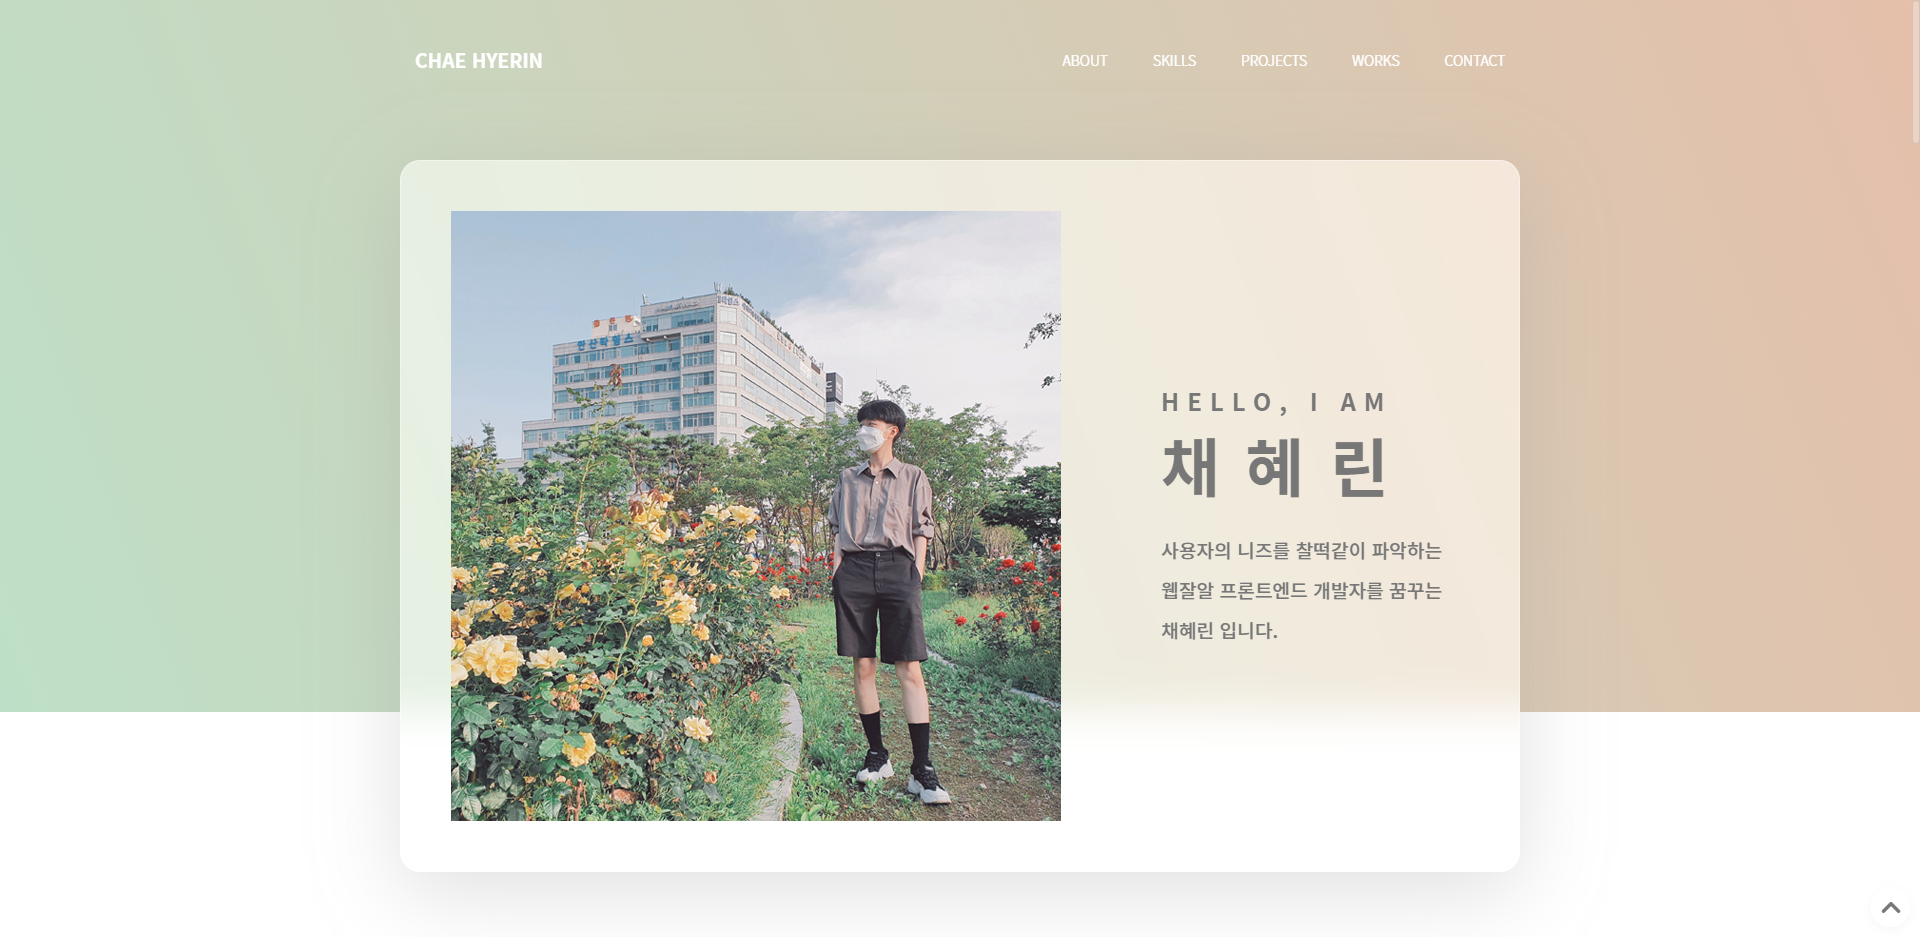
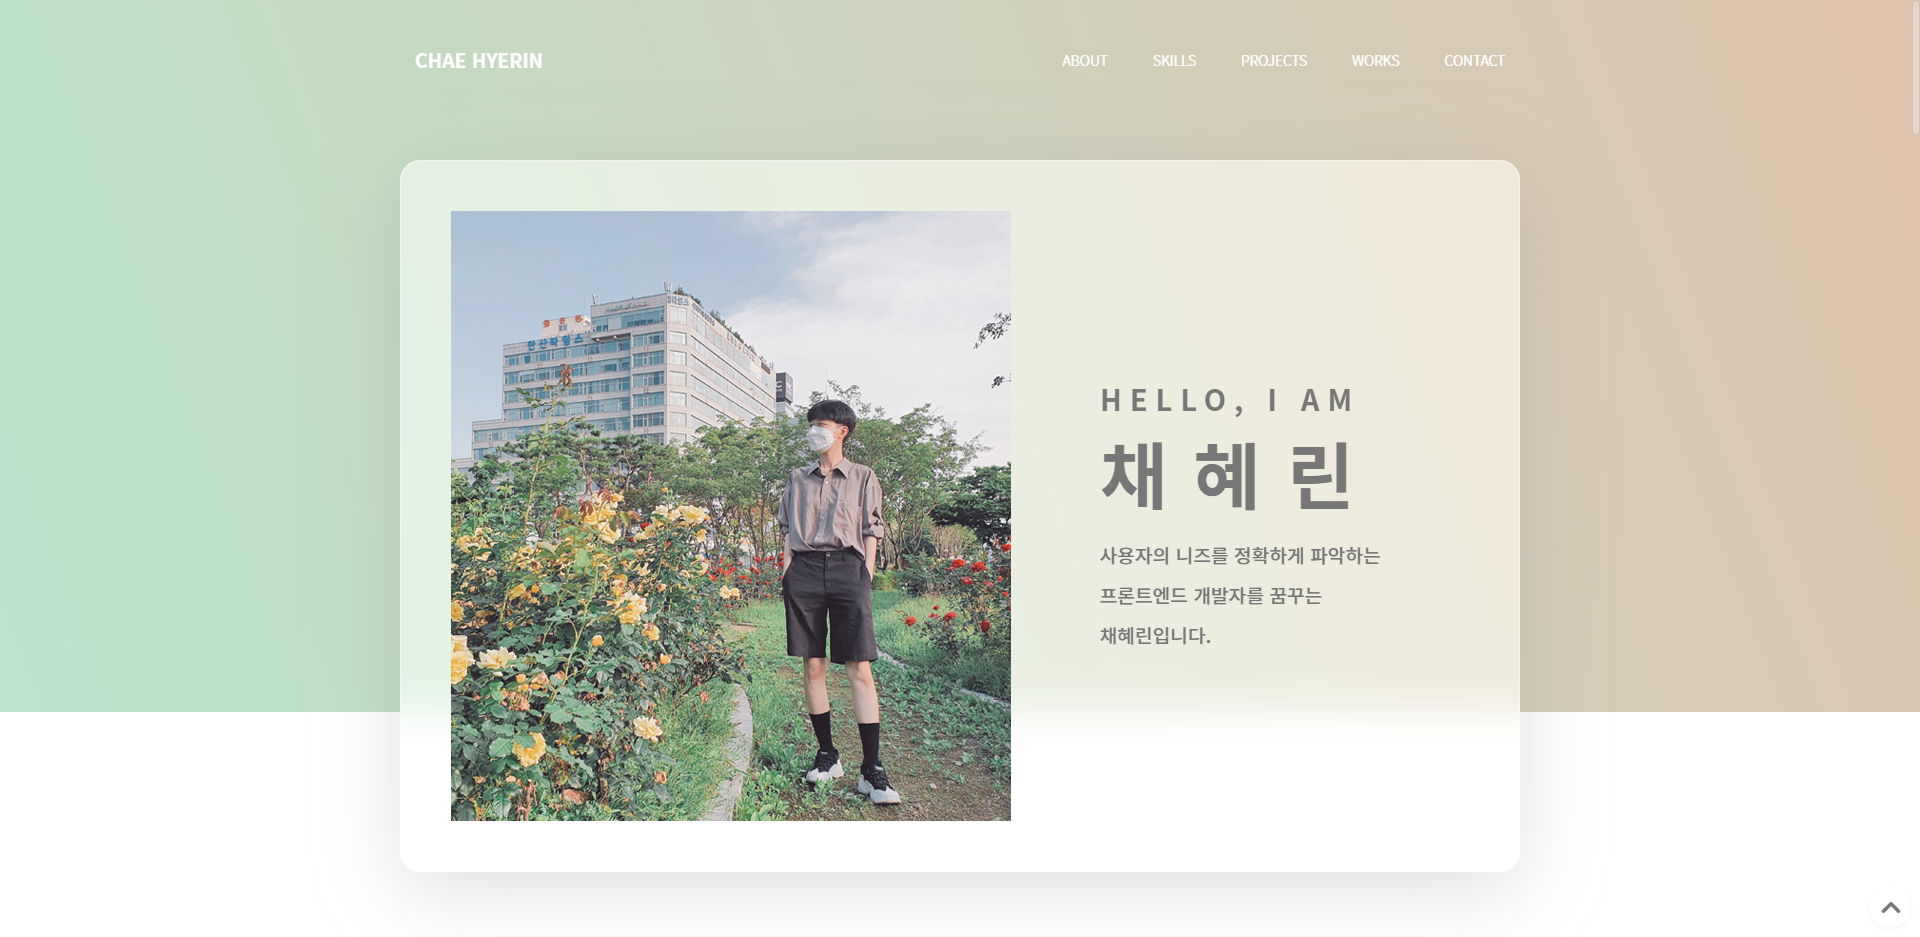
Fix home area

diff --git a/index.html b/index.html
@@ -38,19 +38,19 @@
 			<div class="inner">
 				<div class="content">
 					<div class="content-left">
-						<img src="img/profile_img.jpg" alt="selfie">
+						<div class="frame">
+							<img src="img/profile_img.jpg" alt="selfie">
+						</div>
 					</div>
 					<div class="content-right">
 						<div class="home-text">
-							<div class="home-text name">
-								<div>
-									<h3>Hello, I am</h3>
-									<h1>채혜린</h1>
-								</div>
+							<div class="name">
+								<h3>Hello, I am</h3>
+								<h1>채혜린</h1>
 							</div>
-							<p>사용자의 니즈를 찰떡같이 파악하는 
-								웹잘알 프론트엔드 개발자를 꿈꾸는 
-								채혜린 입니다.</p>
+							<p>사용자의 니즈를 정확하게 파악하는
+								프론트엔드 개발자를 꿈꾸는
+								채혜린입니다.</p>
 						</div>
 					</div>
 				</div>
@@ -121,13 +121,6 @@
 					<h3>css
 						80%</h3>
 					<svg width="160" height="160" xmlns="http://www.w3.org/2000/svg">
-						<defs>
-							<linearGradient id="gradient" gradientTransform="rotate(10)">
-								<stop offset="0%" style="stop-color:#97ffe4;stop-opacity:0.6" />
-								<stop offset="40%" style="stop-color:#ac97ff;stop-opacity:0.6" />
-								<stop offset="100%" style="stop-color:#ffaa97;stop-opacity:0.6" />
-							</linearGradient>
-						</defs>
 						<circle r="69.85699" cy="81" cx="81" stroke-width="8" stroke="rgba(255,255,255,0.4)"
 							fill="none" />
 						<circle class="skillbar" r="69.85699" cy="81" cx="81" stroke-width="8" stroke="url(#gradient)"
@@ -139,13 +132,6 @@
 						script
 						60%</h3>
 					<svg width="160" height="160" xmlns="http://www.w3.org/2000/svg">
-						<defs>
-							<linearGradient id="gradient" gradientTransform="rotate(10)">
-								<stop offset="0%" style="stop-color:#97ffe4;stop-opacity:0.6" />
-								<stop offset="40%" style="stop-color:#ac97ff;stop-opacity:0.6" />
-								<stop offset="100%" style="stop-color:#ffaa97;stop-opacity:0.6" />
-							</linearGradient>
-						</defs>
 						<circle r="69.85699" cy="81" cx="81" stroke-width="8" stroke="rgba(255,255,255,0.4)"
 							fill="none" />
 						<circle class="skillbar" r="69.85699" cy="81" cx="81" stroke-width="8" stroke="url(#gradient)"
@@ -156,13 +142,6 @@
 					<h3>jquery
 						70%</h3>
 					<svg width="160" height="160" xmlns="http://www.w3.org/2000/svg">
-						<defs>
-							<linearGradient id="gradient" gradientTransform="rotate(10)">
-								<stop offset="0%" style="stop-color:#97ffe4;stop-opacity:0.6" />
-								<stop offset="40%" style="stop-color:#ac97ff;stop-opacity:0.6" />
-								<stop offset="100%" style="stop-color:#ffaa97;stop-opacity:0.6" />
-							</linearGradient>
-						</defs>
 						<circle r="69.85699" cy="81" cx="81" stroke-width="8" stroke="rgba(255,255,255,0.4)"
 							fill="none" />
 						<circle class="skillbar" r="69.85699" cy="81" cx="81" stroke-width="8" stroke="url(#gradient)"
@@ -173,13 +152,6 @@
 					<h3>react
 						60%</h3>
 					<svg width="160" height="160" xmlns="http://www.w3.org/2000/svg">
-						<defs>
-							<linearGradient id="gradient" gradientTransform="rotate(10)">
-								<stop offset="0%" style="stop-color:#97ffe4;stop-opacity:0.6" />
-								<stop offset="40%" style="stop-color:#ac97ff;stop-opacity:0.6" />
-								<stop offset="100%" style="stop-color:#ffaa97;stop-opacity:0.6" />
-							</linearGradient>
-						</defs>
 						<circle r="69.85699" cy="81" cx="81" stroke-width="8" stroke="rgba(255,255,255,0.4)"
 							fill="none" />
 						<circle class="skillbar" r="69.85699" cy="81" cx="81" stroke-width="8" stroke="url(#gradient)"
@@ -191,13 +163,6 @@
 						-rator
 						75%</h3>
 					<svg width="160" height="160" xmlns="http://www.w3.org/2000/svg">
-						<defs>
-							<linearGradient id="gradient" gradientTransform="rotate(10)">
-								<stop offset="0%" style="stop-color:#97ffe4;stop-opacity:0.6" />
-								<stop offset="40%" style="stop-color:#ac97ff;stop-opacity:0.6" />
-								<stop offset="100%" style="stop-color:#ffaa97;stop-opacity:0.6" />
-							</linearGradient>
-						</defs>
 						<circle r="69.85699" cy="81" cx="81" stroke-width="8" stroke="rgba(255,255,255,0.4)"
 							fill="none" />
 						<circle class="skillbar" r="69.85699" cy="81" cx="81" stroke-width="8" stroke="url(#gradient)"
@@ -209,13 +174,6 @@
 						-shop
 						70%</h3>
 					<svg width="160" height="160" xmlns="http://www.w3.org/2000/svg">
-						<defs>
-							<linearGradient id="gradient" gradientTransform="rotate(10)">
-								<stop offset="0%" style="stop-color:#97ffe4;stop-opacity:0.6" />
-								<stop offset="40%" style="stop-color:#ac97ff;stop-opacity:0.6" />
-								<stop offset="100%" style="stop-color:#ffaa97;stop-opacity:0.6" />
-							</linearGradient>
-						</defs>
 						<circle r="69.85699" cy="81" cx="81" stroke-width="8" stroke="rgba(255,255,255,0.4)"
 							fill="none" />
 						<circle class="skillbar" r="69.85699" cy="81" cx="81" stroke-width="8" stroke="url(#gradient)"
@@ -294,28 +252,25 @@
 			<h2>other works</h2>
 			<span class="close">&times;</span>
 			<div class="gallary">
-				<div class="gallary-item" data-aos="fade-up" data-aos-anchor-placement="top-bottom">
+				<div class="gallary-item" data-aos="fade-up" data-aos-duration="1500">
 					<img class="gallary-thumb" src="./img/diffuser_design.png" alt="diffuser design">
 					<span class="caption">Adobe Illustrator, Adobe Photoshop</span>
 				</div>
-				<div class="gallary-item" data-aos="fade-up" data-aos-anchor-placement="center-bottom"
-					data-aos-delay="500">
+				<div class="gallary-item" data-aos="fade-up" data-aos-duration="1500">
 					<img class="gallary-thumb" src="./img/illust_catwithflower.png" alt="cat with flower">
 					<span class="caption">Adobe Illustrator</span>
 				</div>
-				<div class="gallary-item" data-aos="fade-up" data-aos-anchor-placement="bottom-bottom"
-					data-aos-delay="1000">
+				<div class="gallary-item" data-aos="fade-up" data-aos-duration="1500">
 					<img class="gallary-thumb" src="./img/checkerboard-friends.png" alt="sun and mountain">
 					<span class="caption">Adobe Illustrator</span>
 				</div>
-				<div class="gallary-item" data-aos="fade-up" data-aos-anchor-placement="bottom-bottom"
-				data-aos-delay="1500">
-				<img class="gallary-thumb" src="./img/sic.png" alt="sun and mountain">
-				<span class="caption">Adobe Illustrator</span>
-			</div>
+				<div class="gallary-item" data-aos="fade-up" data-aos-duration="1500">
+					<img class="gallary-thumb" src="./img/sic.png" alt="sun and mountain">
+					<span class="caption">Adobe Illustrator</span>
+				</div>
 			</div>
 			<div class="modal">
-				<img class="gallary-img" src="" alt="modal">
+				<img class="gallary-img" src="./img/undefined.png" alt="modal">
 			</div>
 		</div>
 	</section>

diff --git a/css/style.css b/css/style.css
@@ -261,12 +261,19 @@ section#contact {
     align-items: center;
 }
 
-#home .content-right {
-    padding-left: 100px;
+#home .content-right .home-text {
+    display: flex;
+    justify-content: center;
+    flex-wrap: wrap;
 }
 
 #home h1 {
-    margin-bottom: 20px;
+    font-size: 4.6rem;
+    margin-bottom: 10px;
+}
+
+#home h3 {
+    font-size: 1.8rem;
 }
 
 #home p {
@@ -753,40 +760,29 @@ footer .copyright {
         justify-content: center;
     }
 
-    #home .content {
-        flex-direction: column;
-        justify-content: space-around;
-    }
-
-    #home .content-left img {
-        width: 60%;
-        border: 1px solid rgba(255, 255, 255, 0.3);
-        border-radius: 50%;
-        box-shadow: 0px 15px 15px 0px rgb(153 153 153 / 30%);
-    }
-
-    #home .content-left {
-        display: flex;
-        justify-content: center;
-    }
-
-    #home .content-right {
-        padding: 50px 0;
-    }
-
     #home .home-text {
         display: flex;
-        flex-direction: column;
-        align-items: flex-end;
+        justify-content: flex-end;
+        flex-wrap: wrap;
     }
 
-    #home-text .name h1, .home-text .name h2 {
-        letter-spacing: 0.5rem;
+    #home .content-right .home-text {
+        justify-content: flex-end;
+    }
+
+    #home h1 {
+        font-size: 4rem;
+        margin-bottom: 10px;
+    }
+
+    #home h3 {
+        font-size: 1.5rem;
     }
 
     #home p {
-        text-align: center;
+        font-size: 1.08rem;
     }
+
 
     /* about */
 
@@ -826,6 +822,39 @@ footer .copyright {
 
     .navbar {
         justify-content: space-between;
+    }
+
+    #home .content {
+        flex-direction: column;
+        justify-content: space-around;
+    }
+
+    #home .content-left {
+        justify-content: center;
+    }
+
+    #home .content-left .frame {
+        width: 300px;
+        height: 300px;
+        border-radius: 50%;
+        border: 1px solid rgba(255, 255, 255, 0.2);
+        box-shadow: 0 0 20px 0px rgb(153 153 153 / 50%);
+        overflow: hidden;
+    }
+
+    #home .content-left img {
+        width: 100%;
+        top: -20px;
+    }
+    #home .content-right .name {
+        padding-left: 20px;
+    }
+    #home .content-right .home-text {
+        flex-direction: column;
+    }
+
+    #home .content-right p {
+        text-align: center;
     }
 
     #about .container {
@@ -875,13 +904,16 @@ footer .copyright {
     #works .gallary .caption {
         bottom: 30%;
     }
+
     #works .modal {
         justify-content: flex-start;
     }
+
     #works .modal .gallary-img {
         max-width: 100%;
         max-height: none;
     }
+
     #works .modal .gallary-img.zoom {
         width: auto;
         max-width: none;
@@ -889,7 +921,7 @@ footer .copyright {
         height: auto;
     }
 
-    
+
 }
 
 /* mobile */
@@ -998,6 +1030,10 @@ footer .copyright {
         text-shadow: 0 0 10px rgb(153 153 153 / 50%);
     }
 
+    #home .content-right .name {
+        padding-top: 20px;
+    }
+
     #about .container,
     #projects .container {
         padding: 0 30px;
@@ -1038,14 +1074,6 @@ footer .copyright {
 
     #works .gallary .gallary-item:first-child .caption {
         bottom: 28%;
-    }
-
-}
-
-@media (max-width: 575px) {
-
-    #home .container {
-        bottom: -70px;
     }
 
 }
